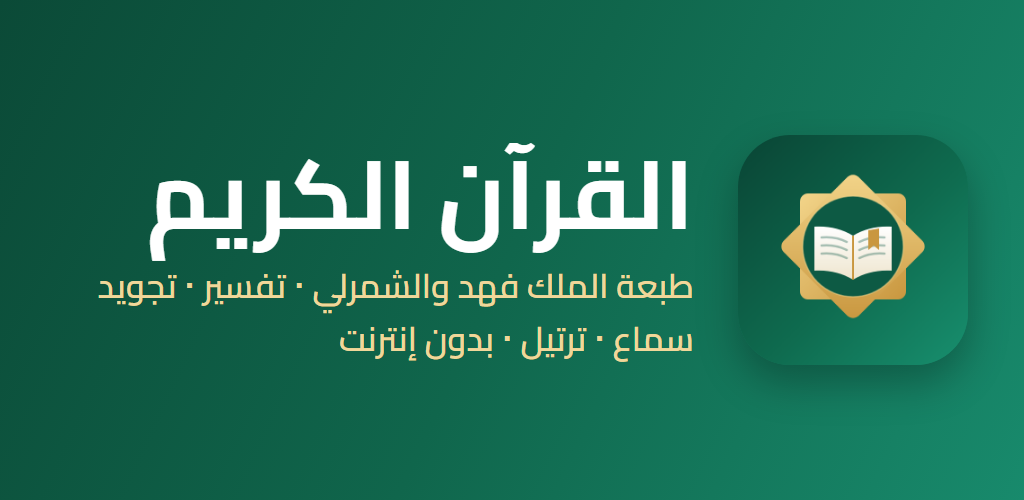
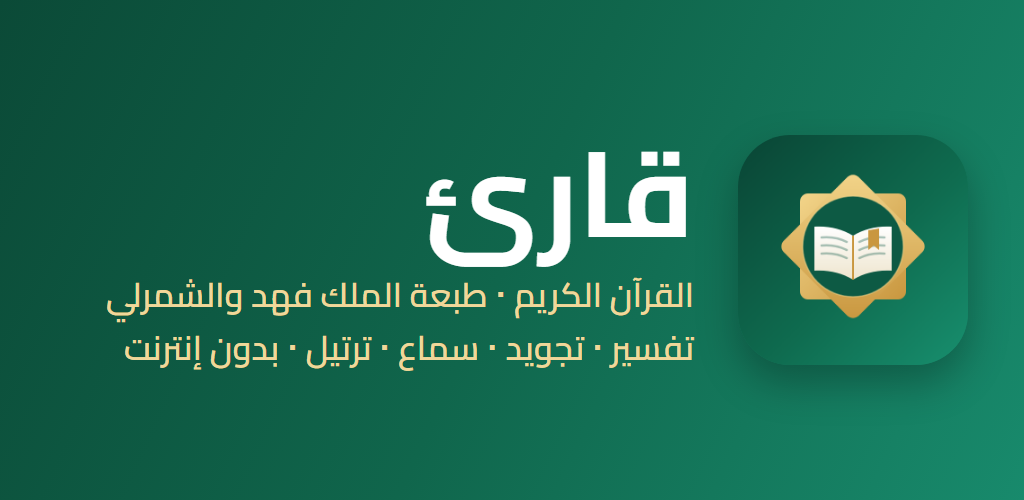
App name: قارئ (launcher label, About, web title/manifest, privacy policy, Play listing, feature graphic)
Play title «قارئ - القرآن الكريم والتفسير» / «Qari - Quran & Tafsir Offline» (29 chars each) keeps
the words people search for.

Changed region(s): [[0.0938, 0.27, 0.6875, 0.75]]

diff --git a/docs/privacy-policy.html b/docs/privacy-policy.html
@@ -1,11 +1,11 @@
 <!doctype html>
 <html lang="ar" dir="rtl"><head><meta charset="utf-8"><meta name="viewport" content="width=device-width, initial-scale=1">
-<title>سياسة الخصوصية - القرآن الكريم</title>
+<title>سياسة الخصوصية - قارئ</title>
 <style>body{font-family:system-ui,sans-serif;max-width:720px;margin:24px auto;padding:0 16px;line-height:1.9;color:#1d1a14;background:#fbf7ee}h1{color:#0f6b4f}</style></head>
 <body>
-<h1>سياسة الخصوصية لتطبيق «القرآن الكريم»</h1>
+<h1>سياسة الخصوصية لتطبيق «قارئ»</h1>
 <p>آخر تحديث: 12 نوفمبر 2026</p>
-<p>تطبيق «القرآن الكريم» مجاني وبدون إعلانات، ولا يحتاج إلى حساب أو تسجيل دخول.</p>
+<p>تطبيق «قارئ» للقرآن الكريم مجاني وبدون إعلانات، ولا يحتاج إلى حساب أو تسجيل دخول.</p>
 <h2>البيانات التي نجمعها</h2>
 <p>لا يجمع التطبيق أي بيانات شخصية. لا توجد أدوات تحليل أو تتبع أو إعلانات. الشيء الوحيد الذي قد يُرسل إلى المطوّر هو مقاطع التلاوة في ميزة «ساعد في تحسين التعرّف على التلاوة»، وهي مقفولة افتراضيًا ولا تعمل إلا بعد موافقتك الصريحة (التفاصيل في القسم التالي).</p>
 <h2>الموقع الجغرافي</h2>
@@ -31,9 +31,9 @@
 <h2>التواصل</h2>
 <p>لأي سؤال عن الخصوصية: CONTACT_EMAIL</p>
 <hr>
-<h1 dir="ltr" style="text-align:left">Privacy Policy – Quran Karim</h1>
+<h1 dir="ltr" style="text-align:left">Privacy Policy – Qari</h1>
 <div dir="ltr" style="text-align:left">
-<p>Last updated: 12 November 2026. Quran Karim is free, has no ads and needs no account.</p>
+<p>Last updated: 12 November 2026. Qari (Quran reader) is free, has no ads and needs no account.</p>
 <p><b>Data collected:</b> no personal data, and no analytics, tracking or advertising SDKs. The only thing that can be sent to the developer is recitation clips from the optional voice donation feature below, which is off by default and needs your explicit consent.</p>
 <p><b>Microphone:</b> used only when you record yourself or recite by voice in the memorisation test. Voice recitation uses either the phone's speech service (often Google's, which may send audio to its servers under its own policy) or the NVIDIA model, which runs on the device without internet. Neither recording is kept or sent by the app unless you turn on voice donation.</p>
 <p><b>Voice donation (optional, off by default):</b> with Settings › "Help improve recitation recognition" on, the app keeps short clips of your voice from voice recitation in the memorisation test with the NVIDIA model, only for parts you read correctly or marked "I read it right". Each clip is sent with the words' text, surah/verse/word numbers, the model's transcript, audio quality measures, the app and model version, and a random device number made by the app that is not linked to your name, account or phone number. No name, email, account, location or contacts are sent. Clips wait on the device and are sent over an encrypted connection (HTTPS), on Wi-Fi only unless you allow mobile data, to a relay server run by the developer on Hugging Face, which stores them in a private (unpublished) Hugging Face dataset with a hash of the device number instead of the number itself. The relay sees your IP address and uses it only in hashed form for rate limits, never stored with clips. Clips are used only to train and improve the recitation recognition model; they are not sold, used for ads or shared with anyone else. You can turn the feature off at any time, and "Delete all my recordings" deletes clips still waiting on the phone, asks the relay to delete every clip sent from your device, and starts a new device number. You can also ask for deletion at the contact address below.</p>

diff --git a/store/privacy-policy.html b/store/privacy-policy.html
@@ -1,11 +1,11 @@
 <!doctype html>
 <html lang="ar" dir="rtl"><head><meta charset="utf-8"><meta name="viewport" content="width=device-width, initial-scale=1">
-<title>سياسة الخصوصية - القرآن الكريم</title>
+<title>سياسة الخصوصية - قارئ</title>
 <style>body{font-family:system-ui,sans-serif;max-width:720px;margin:24px auto;padding:0 16px;line-height:1.9;color:#1d1a14;background:#fbf7ee}h1{color:#0f6b4f}</style></head>
 <body>
-<h1>سياسة الخصوصية لتطبيق «القرآن الكريم»</h1>
+<h1>سياسة الخصوصية لتطبيق «قارئ»</h1>
 <p>آخر تحديث: 12 نوفمبر 2026</p>
-<p>تطبيق «القرآن الكريم» مجاني وبدون إعلانات، ولا يحتاج إلى حساب أو تسجيل دخول.</p>
+<p>تطبيق «قارئ» للقرآن الكريم مجاني وبدون إعلانات، ولا يحتاج إلى حساب أو تسجيل دخول.</p>
 <h2>البيانات التي نجمعها</h2>
 <p>لا يجمع التطبيق أي بيانات شخصية. لا توجد أدوات تحليل أو تتبع أو إعلانات. الشيء الوحيد الذي قد يُرسل إلى المطوّر هو مقاطع التلاوة في ميزة «ساعد في تحسين التعرّف على التلاوة»، وهي مقفولة افتراضيًا ولا تعمل إلا بعد موافقتك الصريحة (التفاصيل في القسم التالي).</p>
 <h2>الموقع الجغرافي</h2>
@@ -31,9 +31,9 @@
 <h2>التواصل</h2>
 <p>لأي سؤال عن الخصوصية: CONTACT_EMAIL</p>
 <hr>
-<h1 dir="ltr" style="text-align:left">Privacy Policy – Quran Karim</h1>
+<h1 dir="ltr" style="text-align:left">Privacy Policy – Qari</h1>
 <div dir="ltr" style="text-align:left">
-<p>Last updated: 12 November 2026. Quran Karim is free, has no ads and needs no account.</p>
+<p>Last updated: 12 November 2026. Qari (Quran reader) is free, has no ads and needs no account.</p>
 <p><b>Data collected:</b> no personal data, and no analytics, tracking or advertising SDKs. The only thing that can be sent to the developer is recitation clips from the optional voice donation feature below, which is off by default and needs your explicit consent.</p>
 <p><b>Microphone:</b> used only when you record yourself or recite by voice in the memorisation test. Voice recitation uses either the phone's speech service (often Google's, which may send audio to its servers under its own policy) or the NVIDIA model, which runs on the device without internet. Neither recording is kept or sent by the app unless you turn on voice donation.</p>
 <p><b>Voice donation (optional, off by default):</b> with Settings › "Help improve recitation recognition" on, the app keeps short clips of your voice from voice recitation in the memorisation test with the NVIDIA model, only for parts you read correctly or marked "I read it right". Each clip is sent with the words' text, surah/verse/word numbers, the model's transcript, audio quality measures, the app and model version, and a random device number made by the app that is not linked to your name, account or phone number. No name, email, account, location or contacts are sent. Clips wait on the device and are sent over an encrypted connection (HTTPS), on Wi-Fi only unless you allow mobile data, to a relay server run by the developer on Hugging Face, which stores them in a private (unpublished) Hugging Face dataset with a hash of the device number instead of the number itself. The relay sees your IP address and uses it only in hashed form for rate limits, never stored with clips. Clips are used only to train and improve the recitation recognition model; they are not sold, used for ads or shared with anyone else. You can turn the feature off at any time, and "Delete all my recordings" deletes clips still waiting on the phone, asks the relay to delete every clip sent from your device, and starts a new device number. You can also ask for deletion at the contact address below.</p>

diff --git a/web/index.html b/web/index.html
@@ -4,7 +4,7 @@
 <meta charset="utf-8">
 <meta name="viewport" content="width=device-width, initial-scale=1, viewport-fit=cover">
 <meta name="theme-color" content="#0a4535">
-<title>القرآن الكريم</title>
+<title>قارئ - القرآن الكريم</title>
 <link rel="manifest" href="manifest.webmanifest">
 <link rel="icon" href="icons/icon-192.png">
 <link rel="stylesheet" href="style.css">
@@ -158,7 +158,7 @@
     </details>
     <details class="about-box ar-only">
       <summary>حول التطبيق</summary>
-      <p class="about"><b>القرآن الكريم</b> · الإصدار 5.20<br>
+      <p class="about"><b>قارئ</b> · الإصدار 5.20<br>
       تطبيق مجاني بدون إعلانات، يعمل بدون إنترنت (ما عدا تحميل صفحات الطبعة وصوت القارئ أول مرة).</p>
       <p class="about"><b>الخصوصية</b><br>
       التطبيق لا يجمع أي بيانات ولا يرسلها لأي جهة إلا تسجيلات التلاوة لو وافقت عليها (التفاصيل تحت)، ولا يحتاج حسابًا، وليس فيه إعلانات. الموقع يُستخدم ويُحفظ على الجهاز فقط لحساب اتجاه القبلة ومواقيت الصلاة، ولا يُرسل لأي جهة. التذكيرات وتنبيهات الأذان تُجهَّز على الجهاز نفسه. الميكروفون يُستخدم فقط لو اخترت «سجّل تلاوتك» في اختبار الحفظ، والتسجيل يفضل على الجهاز ولا يُحفظ ولا يُرسل. و«التسميع بالصوت» والقراءة بالصوت يستخدمان نموذج التعرّف على التلاوة الذي يعمل على الموبايل نفسه بدون إنترنت.

diff --git a/store/make-feature-graphic.js b/store/make-feature-graphic.js
@@ -12,8 +12,8 @@ function loadPW() {
 }
 const R = path.resolve(__dirname, '..');
 const url = f => require('url').pathToFileURL(path.join(R, f)).href;
-const TITLE = 'القرآن الكريم';
-const SUB = 'طبعة الملك فهد والشمرلي · تفسير · تجويد<br>سماع · ترتيل · بدون إنترنت';
+const TITLE = 'قارئ';
+const SUB = 'القرآن الكريم · طبعة الملك فهد والشمرلي<br>تفسير · تجويد · سماع · ترتيل · بدون إنترنت';
 const html = `<!doctype html><html dir="rtl"><head><meta charset="utf-8"><style>
 @font-face { font-family: Cairo; font-weight: 700; src: url(${url('web/fonts/cairo-700.woff2')}); }
 @font-face { font-family: Cairo; font-weight: 600; src: url(${url('web/fonts/cairo-600.woff2')}); }
@@ -22,7 +22,7 @@ body { background: linear-gradient(115deg, #0b4a37 0%, #10664c 50%, #188a6c 100%
   display: flex; align-items: center; gap: 44px; padding: 0 56px 0 40px; box-sizing: border-box; }
 img { width: 230px; height: 230px; border-radius: 52px; box-shadow: 0 18px 40px rgba(0,0,0,.28); flex: none; }
 .t { display: flex; flex-direction: column; gap: 6px; }
-h1 { margin: 0; color: #fff; font-weight: 700; font-size: 96px; line-height: 1.25; }
+h1 { margin: 0; color: #fff; font-weight: 700; font-size: 120px; line-height: 1.15; }
 p { margin: 0; color: #f0d79a; font-weight: 600; font-size: 34px; line-height: 1.55; white-space: nowrap; }
 </style></head><body><img src="${url('store/icon-512.png')}"><div class="t"><h1>${TITLE}</h1><p>${SUB}</p></div></body></html>`;
 (async () => {

diff --git a/store/listing-play.md b/store/listing-play.md
@@ -9,8 +9,8 @@ Data safety: `store/data-safety.md`. Privacy policy: `https://drmalek1987.github
 ## 1. Main store listing
 
 ### App name (≤ 30)
-- AR (default language, `ar`): `القرآن الكريم - مصحف وتفسير`
-- EN (`en-US` translation): `Quran Karim - Mushaf & Tafsir`
+- AR (default language, `ar`): `قارئ - القرآن الكريم والتفسير`
+- EN (`en-US` translation): `Qari - Quran & Tafsir Offline`
 
 ### Short description (≤ 80, no "best/free/new", no emoji)
 - AR: `مصحف يعمل بدون إنترنت بثلاث طبعات، مع تفسير وتجويد ملون وتسميع بالصوت وأذكار`
@@ -18,7 +18,7 @@ Data safety: `store/data-safety.md`. Privacy policy: `https://drmalek1987.github
 
 ### Full description – AR (≤ 4000)
 ```
-«القرآن الكريم» تطبيق لقراءة المصحف وتدبّره وحفظه، يعمل بدون إنترنت، بلا إعلانات وبلا تسجيل دخول.
+«قارئ» تطبيق لقراءة المصحف وتدبّره وحفظه، يعمل بدون إنترنت، بلا إعلانات وبلا تسجيل دخول.
 
 المصحف
 • ثلاث طبعات مصوّرة: مصحف المدينة النبوية (طبعة مجمع الملك فهد الحالية)، والطبعة القديمة من مصحف المدينة، ومصحف على ترتيب الشمرلي. تُنزَّل الطبعة التي تختارها مرة واحدة ثم تعمل بدون إنترنت.
@@ -52,7 +52,7 @@ Data safety: `store/data-safety.md`. Privacy policy: `https://drmalek1987.github
 
 ### Full description – EN (≤ 4000)
 ```
-Quran Karim is a Mushaf for reading, understanding and memorising the Quran. It works offline, has no ads and needs no account. The interface is Arabic, with an English option.
+Qari is a Mushaf app for reading, understanding and memorising the Quran. It works offline, has no ads and needs no account. The interface is Arabic, with an English option.
 
 The Mushaf
 • Three printed Mushaf editions: the current King Fahd Complex Madinah Mushaf, the older Madinah print, and a Shamarly-layout Mushaf. You download the edition you choose once, then it works offline.

diff --git a/store/PLAY-UPLOAD-GUIDE.md b/store/PLAY-UPLOAD-GUIDE.md
@@ -1,4 +1,4 @@
-# دليل رفع «القرآن الكريم» على Google Play خطوة بخطوة
+# دليل رفع «قارئ» على Google Play خطوة بخطوة
 
 حساب شخصي (Personal)، مش تاجر (non-trader). النسخة: 5.20 (versionCode 68)، ملف `quran-karim-v5.20-play.aab`.
 اتراجع على قواعد جوجل يوم 12 نوفمبر 2026 (المصادر في `plans/play-store-plan.md`).
@@ -40,7 +40,7 @@
 ## المرحلة 1: إنشاء التطبيق
 
 10. Play Console › **Home** › **Create app**.
-11. App name: `القرآن الكريم - مصحف وتفسير` 📁 `store/listing-play.md`.
+11. App name: `قارئ - القرآن الكريم والتفسير` 📁 `store/listing-play.md`.
 12. Default language: **Arabic – ar**.
 13. App or game: **App**. Free or paid: **Free** (المجاني مينفعش يتحوّل لمدفوع بعد كده).
 14. 👤 علّم على الإقرارات (Developer Program Policies و US export laws) واضغط **Create app**.
